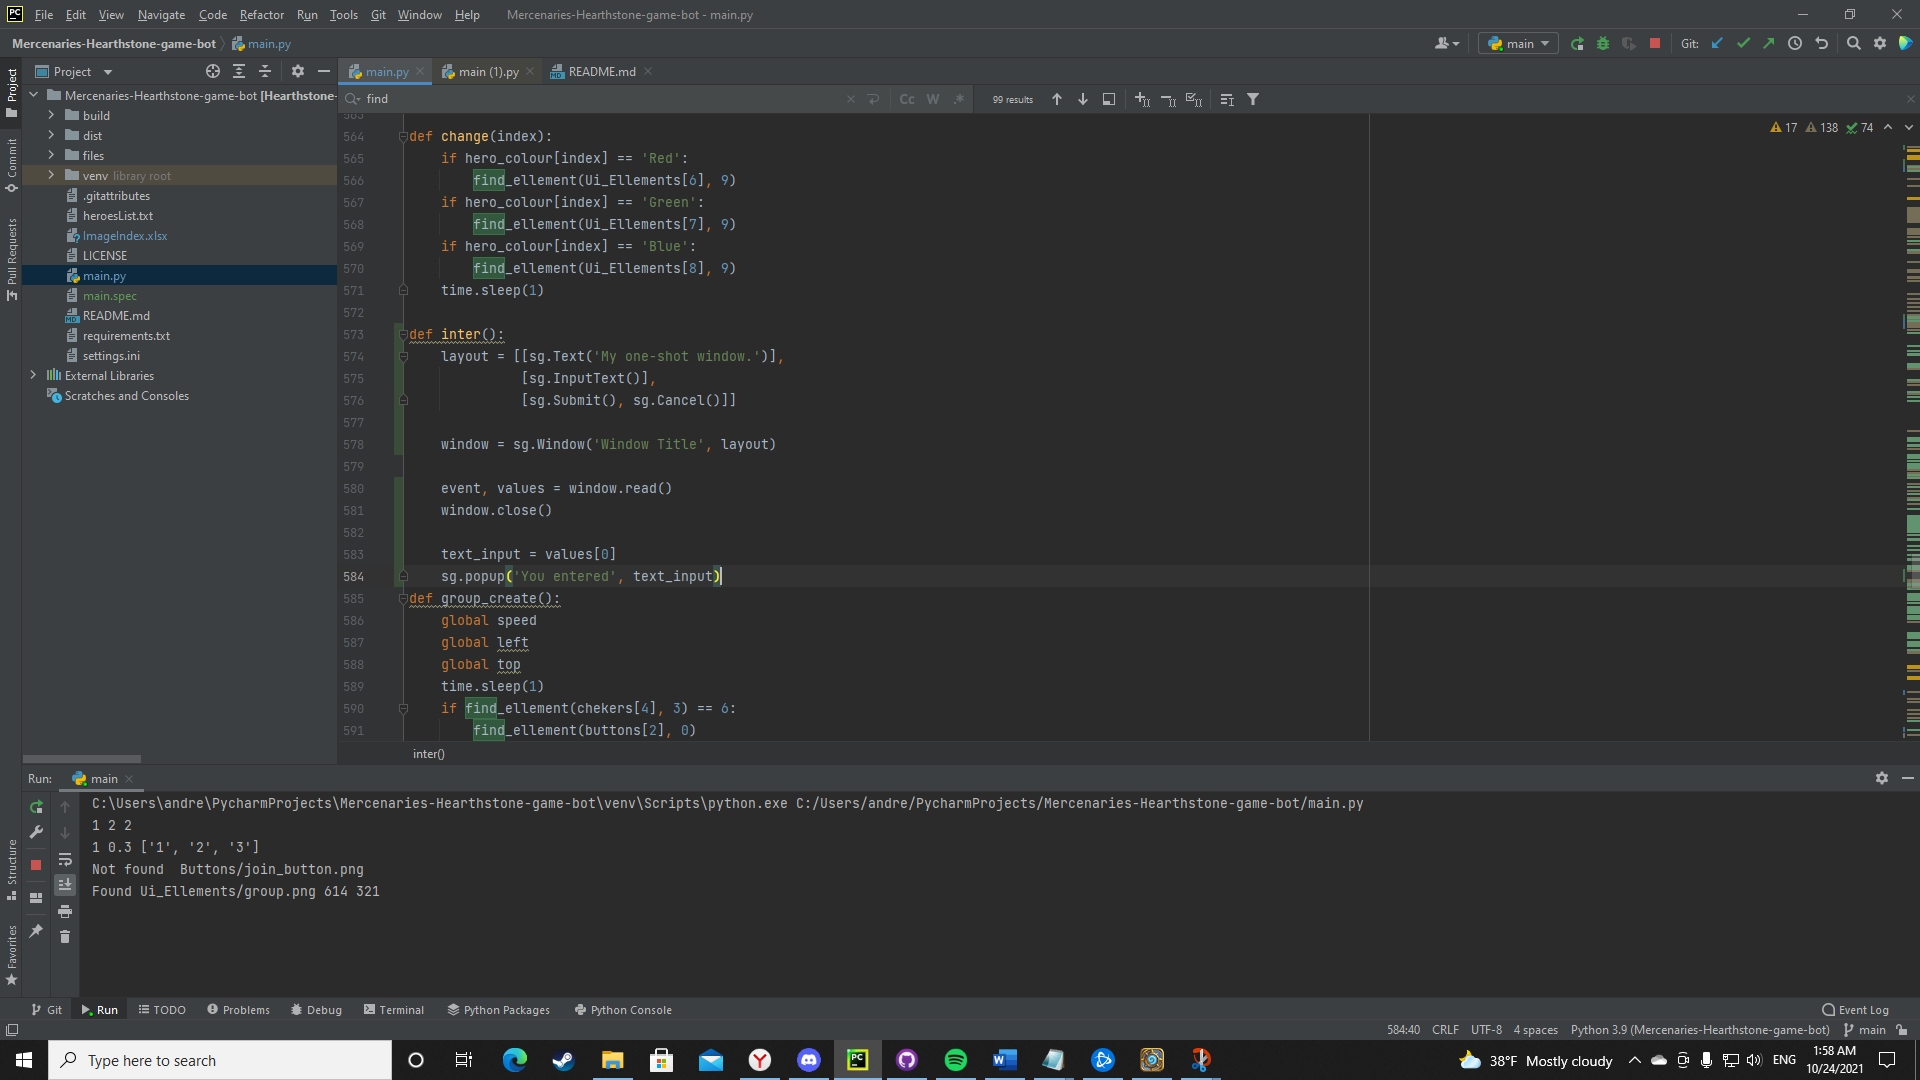
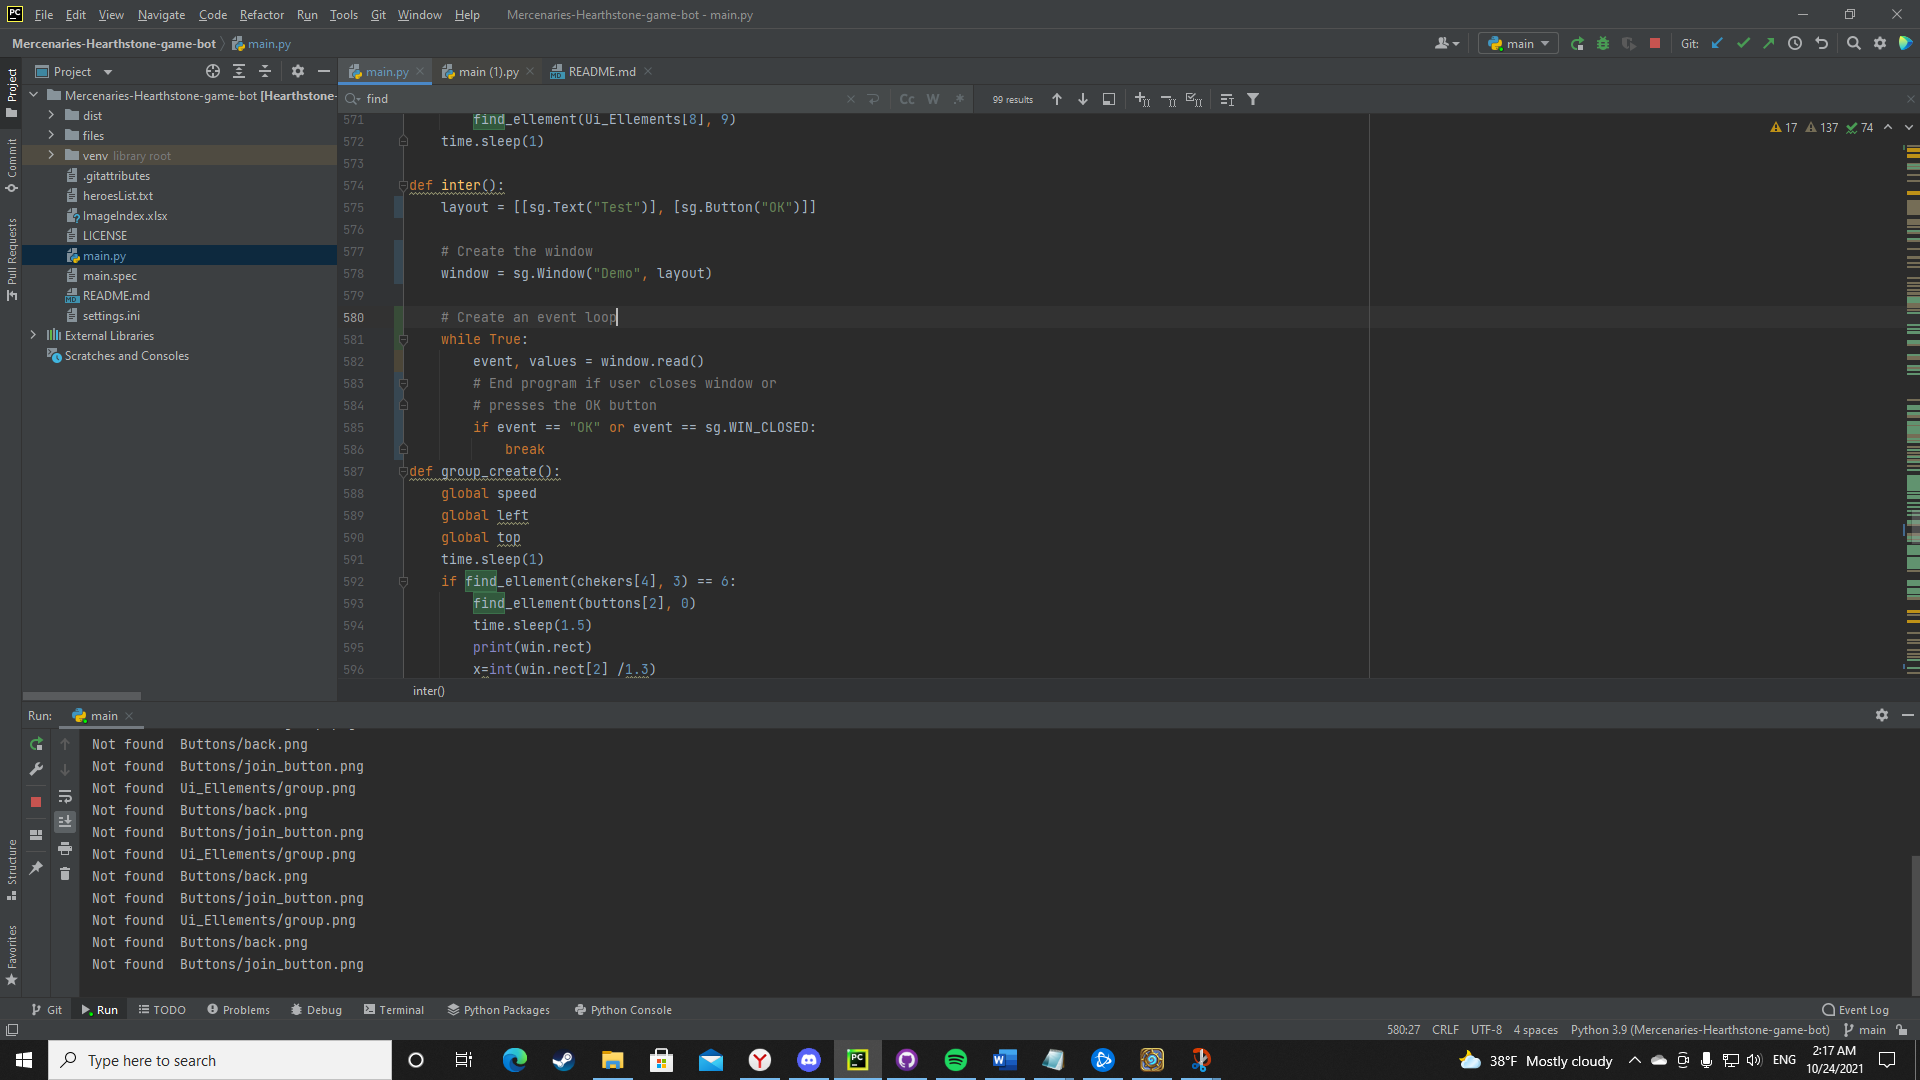
time to sleep

diff --git a/main.py b/main.py
@@ -7,6 +7,7 @@ import mss
 import configparser
 import random
 import PySimpleGUI as sg
+import threading
 
 ahk = AHK()
 global xm
@@ -571,17 +572,12 @@ def change(index):
     time.sleep(1)
 
 def inter():
-    layout = [[sg.Text('My one-shot window.')],
-              [sg.InputText()],
-              [sg.Submit(), sg.Cancel()]]
-
-    window = sg.Window('Window Title', layout)
-
-    event, values = window.read()
-    window.close()
-
-    text_input = values[0]
-    sg.popup('You entered', text_input)
+    layout = [[sg.Text("Test")], [sg.Button("OK")]]
+    window = sg.Window("Demo", layout)
+    while True:
+        event, values = window.read()
+        if event == "OK" or event == sg.WIN_CLOSED:
+            break
 def group_create():
     global speed
     global left
@@ -779,7 +775,8 @@ def main():
         win.maximize()
         win.to_top()
         win.activate()
-        inter()
+        thr1 = threading.Thread(target=inter)
+        thr1.start()
         while True:
             if findgame():
                 # print("Game window found")
